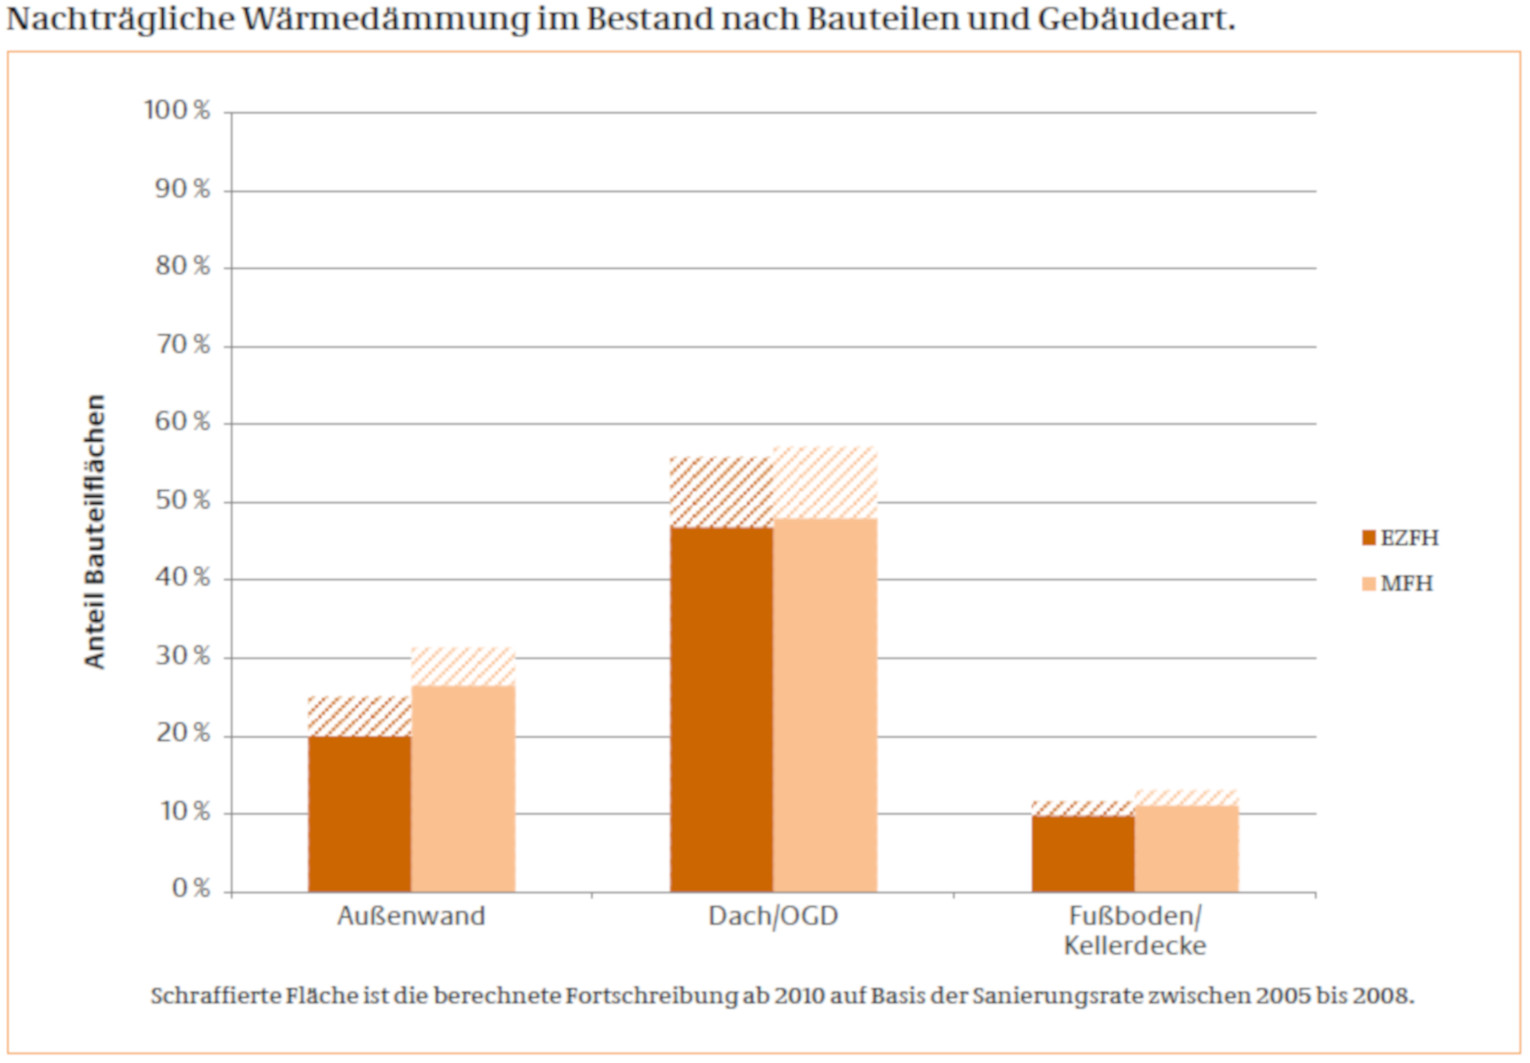
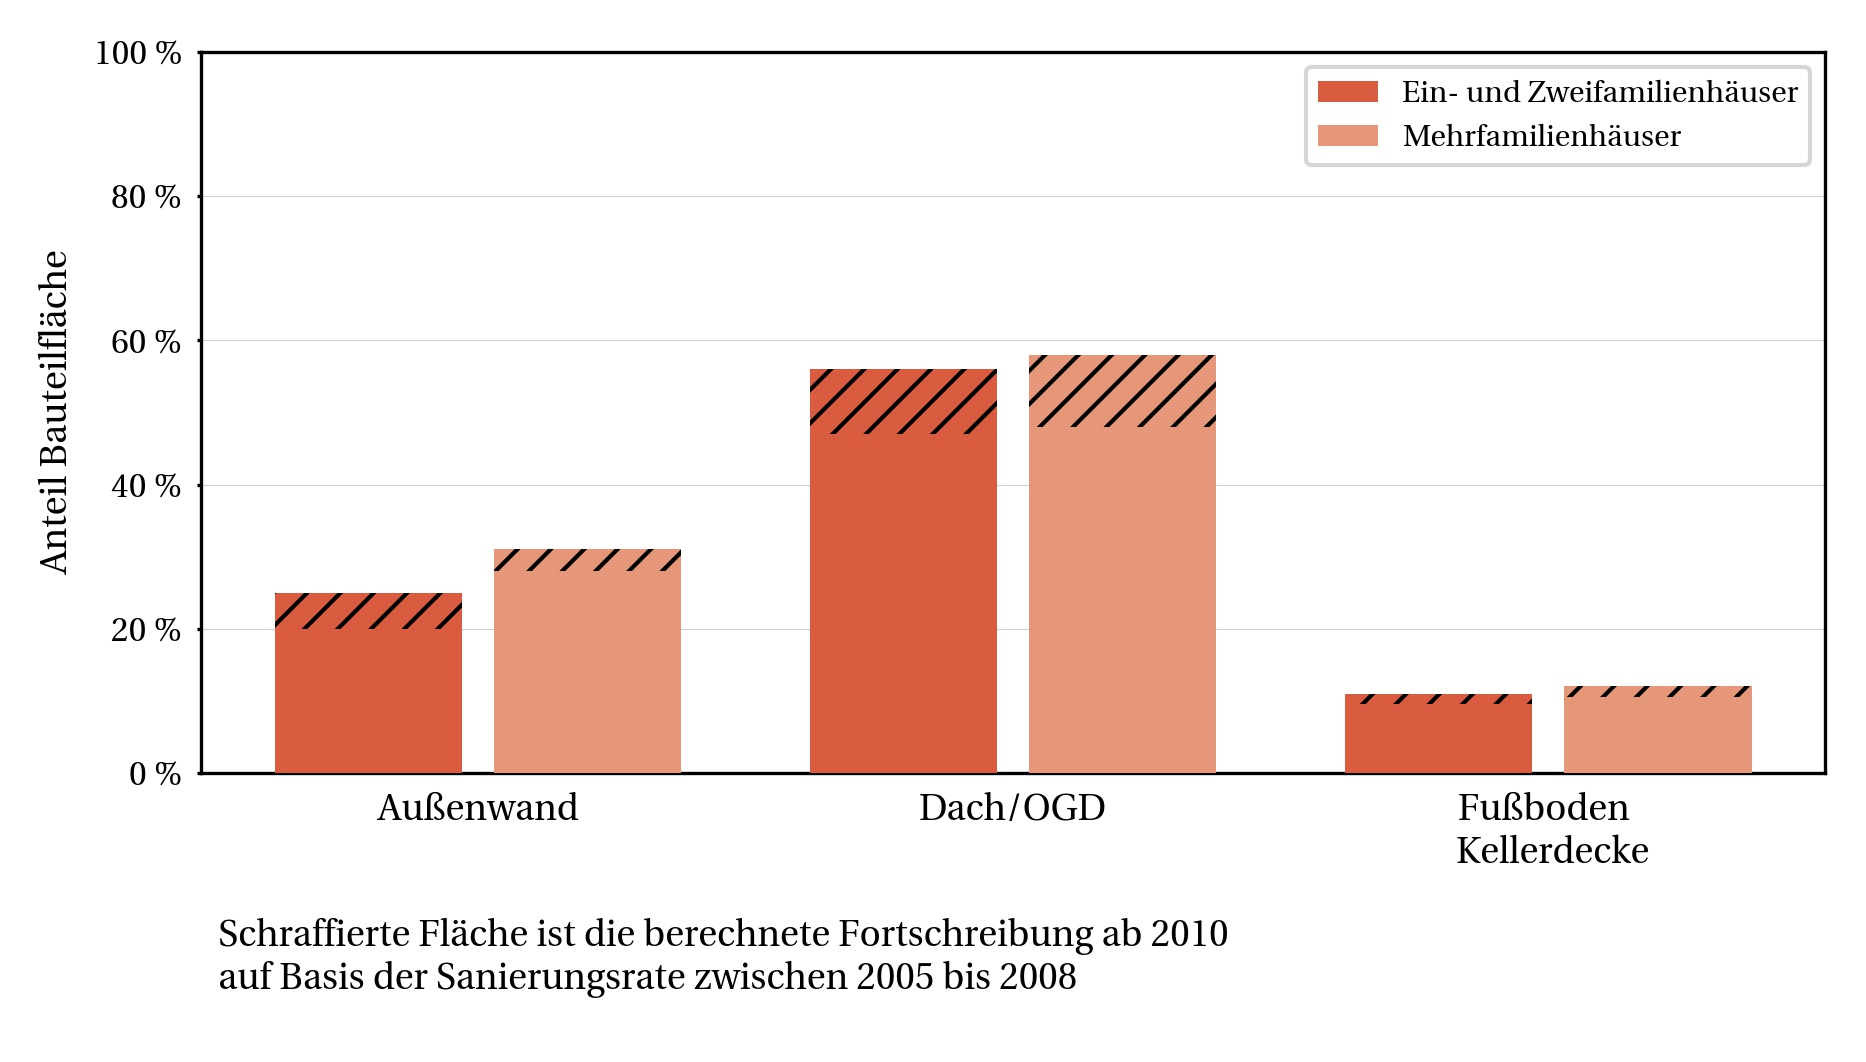
saturday changes

diff --git a/Chapters/StandDerTechnik.tex b/Chapters/StandDerTechnik.tex
@@ -113,7 +113,7 @@ In Tabelle \ref{tab: Tabelle311} sind die zuvor vorgestellten Programme der Ener
 \hline
 \rowcolor[HTML]{C0C0C0} 
 Autor & \begin{tabular}[c]{@{}l@{}}Art der\\ Optimierung \end{tabular} & \begin{tabular}[c]{@{}l@{}}Ebene/ \\ Betrachtung \end{tabular} & Energiesysteme & \begin{tabular}[c]{@{}l@{}}Zielfunktion\\ (Minimierung von...)\end{tabular} \\ \hline
-Iturriaga et al. & MILP & \begin{tabular}[c]{@{}l@{}}Gebäude\\ Auslegung\end{tabular} & XXXX & Jährlichen Kosten \\ \hline
+Iturriaga et al. & MILP & \begin{tabular}[c]{@{}l@{}}Gebäude\\ Auslegung\end{tabular} & alle & Jährlichen Kosten \\ \hline
 \rowcolor[HTML]{EFEFEF} 
 Pinzon et al. & MILP & \begin{tabular}[c]{@{}l@{}}Gebäude\\ Betrieb\end{tabular} & PV, ES,Klimageräte & \begin{tabular}[c]{@{}l@{}}Jährlichen Elektri-\\ zitätskosten\end{tabular} \\ \hline
 Risbeck et al. & MILP & \begin{tabular}[c]{@{}l@{}}Gebäude\\ Betrieb\end{tabular} & Lüftungssysteme & \begin{tabular}[c]{@{}l@{}}Jährlichen Betriebs-\\ kosten\end{tabular} \\ \hline
@@ -299,60 +299,75 @@ Strom & 0,566 \\
 \label{tab: Tabelle321}
 \end{table}
 
-Die Kombinationsmöglichkeiten zur Erfüllung der Zielfunktionen wird durch den Lösungsraum, welcher durch Restriktionen definiert wird, beschränkt.
+Die Kombinationsmöglichkeiten zur Erfüllung der Zielfunktionen wird durch den Lösungsraum beschränkt, welcher durch Restriktionen definiert wird.
 So wird beispielsweise die Anzahl der PV-Module durch die zur Verfügung stehende Dachfläche limitiert.
-Eine zentrale Nebenbedingung stellt die Berechnung der Heizlast dar.
+Eine zentrale Nebenbedingung stellt die Berechnung des Jahres-Heizenergiebedarf dar.
 Diese beschreibt die Wärmemenge, welche durch die Anlagentechnik bereitgestellt werden muss, um das Gebäude auf die Innentemperatur in Höhe von 20\,°C zu heizen.
-Als Berechnungsgrundlage dient die DIN V 4108.
-Diese definiert den Jahres-Heizenergiebedarf (Q) als Summe des Jahres-Heizwärmebedarfs (Q\(_h\), des Jahreswärmebedarfs zur Warmwasseraufbereitung (Q\(_W\) und den Wärmeverlusten der Anlagentechnik zur Wärme- und Warmwasserbereitstellung (Q\(_t\) abzüglich der Energiemenge, welche aus regenerativen Quellen gewonnen wird (Q\(_r\).
+Zur Berechnung des Jahres-Heizwärmebedarfs wird die DIN V 4701-10 \cite{DeutschesInstitutfurNormunge.V..082003} genutzt.
+Wie in Abbildung \ref{fig: Abbildung321} zu erkennen ist, setzt sich der Heizwärmebedarf zusammen aus den Transmissionwärmeverlusten (Q\(_T\)), den Lüftungswärmeverlusten (Q\(_V\)), den solaren Gewinnen (Q\(_S\)) und den internen Gewinnen (Q\(_i\)).
+Somit wird der Heizwärmebedarf berechnet als
 \begin{equation}
-\label{eq:Gleichung323}
-Q = Q_h + Q_W + Q_t - Q_r
+\label{eq:Gleichung3292}
+Q_h = Q_T + Q_V - Q_S - Q_i
 \end{equation}
 
+\begin{figure}[H] \centering
+	\centering
+		\includegraphics{Pictures/DIN_V_4701_10.png}
+	\caption{Schematische Darstellung der Berechnung des Energiebedarfs nach DIN V 4701-10 \cite{DeutschesInstitutfurNormunge.V..082003}}
+	\label{fig: Abbildung321} 
+\end{figure}
 
+Die Ermittlung der Transmissionswärmeverluste erfolgt anhand des Monatsbilanzverfahrens der DIN V 4108-6.
+Hier wird der spezifische Transmissionwärmeverlust (H\(_T\)) anhand von Gleichung \ref{eq:Gleichung3293} berechnet.
+\begin{equation}
+\label{eq:Gleichung3293}
+H_T = \sum U_i \cdot A_i + H_u + L_S + H_{WB} + \Delta H_{T,FH}
+\end{equation}
+Hierbei wird die Fläche (A) eines Bauteils i mit dessen U-Wert multipliziert, um den Wärmeverlust aufgrund des Wärmedurchgangs durch das Bauteil zu bestimmen.
+Weiter wird der Einfluss durch Wärmebrücken mittels H\(_{WB}\) und der Wärmeverlust bei anderer Temperaturdifferenz anstatt Innen- und Außentemperatur durch den thermischen Leitwert L\(_S\) berücksichtigt.
+Da in dem Optimierungsmodell keine Unterteilung in Räume geschieht und von einer durchweg konstanten Innentemperatur ausgegangen wird, entfällt der spezifische Transmissionswärmeverlust durch unbeheizte Räume (H\(_u\)).
+Ebenso wird der spezifische Wärmeverlust durch Bauteile mit Flächenheizung (\(\Delta\)H\(_{T,FH}\)) nicht betrachtet.
+Nach DIN V 4108-6 werden L\(_S\) und H\(_{WB}\) mit
+\begin{equation}
+\label{eq:Gleichung3294}
+L_{S,i} = F_i \cdot U_i \cdot A_i
+\end{equation}
+\begin{equation}
+\label{eq:Gleichung3295}
+H_{WB} = \Delta U_{WB} \cdot A
+\end{equation}
+bestimmt. 
+Der Temperaturkorrekturfaktor (F\(_i\)) definiert einen abweichenden Temperaturunterschied zwischen Innen- und Außentemperatur des Bauteils i und \(\Delta\) U\(_{WB}\) den Wärmebrückeneinfluss.
+Durch Einsetzen von Gleichung \ref{eq:Gleichung3295} und \ref{eq:Gleichung3294} in \ref{eq:Gleichung3293} wird der spezifische Transmissionswärmeverlust mit
+\begin{equation}
+\label{eq:Gleichung3296}
+H_T = \sum_{i} A_i \cdot F_i \cdot (U_i + \Delta U_{WB}) \quad \text{mit i} \in \text{[standard, retrofit, advanced retrofit]}
+\end{equation}
+berechnet.
+Die nummerischen Werte der Faktoren F\(_i\) und \(\Delta\) U\(_{WB}\) werden in Tabelle XXXX wiedergegeben.\\
+Die U-Werte der Gebäudehülle hängen von der Wahl des Sanierungsszenarios ab.
+Mit x\(_{i,k}\) als binäre Entscheidungsvariable des Bauteils i und Szenarios k wird die spezifischen Transmissionswärmeverluste somit im Optimierungsprogramm als
+\begin{equation}
+\label{eq:Gleichung3297}
+H_T = \sum_{k} \sum_{i}  A_i \cdot F_i \cdot (U_{k,i} + \Delta U_{WB}) \cdot x_{k,i} \quad \text{mit k}  \in \text{[Außenwand, Boden, Fenster, Dach]}
+\end{equation}
 
-Diese definiert die Norm-Heizlast \(\Phi_{HL, build}\) als Summe der Transmissionswärmeverlusten \(\Phi_T\), Lüftungswärmeverlusten \(\Phi_{V, build}\), der Aufheizleistung \(\Phi_{hu}\) und abzüglich der internen Gewinne \(\Phi_{gain}\).
+Weiterhin werden Profile der inneren Gewinne eingelesen und somit Q\(_i\) bestimmt.
+Die solaren Gewinne werden anhand der DIN V 4108-6 bestimmt durch
 \begin{equation}
-\label{eq:Gleichung323}
-\Phi_{HL, build} = \Phi_T + \Phi_{V, build} + \Phi_{hu} - \Phi_{gain}
+\label{eq:Gleichung3298}
+Q_s = \sum_j I_{s,j} \sum_{i}^{n} A_{s,ji} \quad \text{.}
 \end{equation}
-Die internen Gewinne werden aufgeteilt in solare Gewinne aus Sonneneinstrahlung und internen Wärmequellen wie beispielsweise Küchengeräte oder anwesenden Personen.
-Diese werden durch eingelesene Profile bestimmt und sind somit für das parametrisierte Gebäude für einen Zeitabschnitt konstant.
-Da das Modell keine Gebäudemasse abbildet, kann die Aufheizleistung nicht berechnet werden.
-Laut Norm ist \(\Phi_{hu}\) optional und wird somit vernachlässigt.
+Hierbei wird die effektive Kollektorfläche (A\(_s\)) anhand diverser Abminderungsfaktoren (F\(_s\), F\(_c\), F\(_F\), F\(_W\)) und dem wirksamen Gesamtenergiedurchlassgrad (g) berechnet.
+Der Gesamtenergiedurchlassgrad wird als G-Wert bezeichnet und hängt von dem energetischen Standard der Verglasung ab.
+Mit den eingelesenen solaren Einstrahlungsprofilen, welche für jede Himmelsrichtung j eingelesen werden und der Binärvariable zur Auswahl eines Sanierungsszenarios i der Fenster (x\(_{Fenster}\)) ergeben sich die solaren Gewinne zu
+\begin{equation}
+\label{eq:Gleichung3299}
+Q_s = F_s \cdot F_c \cdot F_F \cdot F_W \cdot \sum_{i} (x_{Fenster, i} \cdot g_i \cdot \sum_{j} ( A_{Fenster, j} \cdot I_{s,j} ))
+\end{equation}
 
-Die Transmissionswärmeverluste \(\Phi_T\) beschreiben Wärmeverluste aufgrund des Wärmeüberganges an der Gebäudehülle und lassen sich als Produkt der Temperaturdifferenz zwischen der Innen- (\(\theta_{int, i}\)) und Außentemperatur (\(\theta_e\)) mit dem Transmissionswärmetransferkoeffizienten (H\(_t\)) bestimmen und sind in Gleichung \ref{eq:Gleichung324} wiedergegeben.
-Zur Berechnung von H\(_t\) werden die Bauteilfläche (A\(_k\)), der U-Wert (U\(_k\)) und der Temperaturkorrekturfaktor (f\(_{U,k}\)) für jedes Bauteil k multipliziert und die Summe der Produkte gebildet.
-Außerdem werden Wärmebrücken mit dem zusätzlichen Wärmedurchgangskoeffizient (\(\Delta\) U\(_{TB}\)) berücksichtigt.
-Die Formel zur Berechnung von H\(_t\) ist in \ref{eq:Gleichung325} zu finden.
-\begin{equation}
-\label{eq:Gleichung324}
-\Phi_T = H_t \cdot (\theta_{int, i} - \theta_e)
-\end{equation}
-\begin{equation}
-\label{eq:Gleichung325}
-H_t = \sum_{k} A_k \cdot (U_k + \Delta U_{TB}) \cdot f_{U,k} \qquad \text{mit k }\in \{\text{Außenwand, Boden, Fenster, Dach}\}
-\end{equation}
-Hierbei wird \(\Delta U_{TB}\) laut Norm vereinfacht mit 0,05 \(\frac{W}{m^2\cdot K}\) angenommen.
-Der Temperaturkorrekturfaktor berücksichtigt einen Unterschied zwischen Innentemperatur und Außentemperatur.
-Da in dem Programm keine Unterscheidung der Raumnutzung erfolgt, gibt es nur im Falle des Bodens aufgrund des Kontakts mit dem Erdreich einen solchen Unterschied.
-Daher wird \(f_{U, Boden}\) nach Norm mit 0,6 bestimmt.
-Die verschiedenen Kombinationsmöglichkeiten der Sanierungsszenarien werden durch Multiplikation mit einer binären Entscheidungsvariablen (\(x_{k, i}\)) in das Programm mit aufgenommen, wobei k \(\in\) \{Außenwand, Boden, Dach Fenster\} und i \(\in\) \{standard, retrofit, advanced retrofit\}.
-\begin{equation}
-\label{eq:Gleichung326}
-H_t = \sum_{k} \sum_{i} A_k \cdot (U_k + \Delta U_{TB}) \cdot f_{U,k} \cdot x_{k, i}
-\end{equation}
-Im Falle \(x_{k, i} = 1\), wird das Szenario gekauft und die Transmissionswärmeverluste werden gesenkt.
-Analog hierzu entspricht \(x_{k, i} = 0\) einer Ablehnung für das Bauteil k das Szenario i zu kaufen.
-Logischerweise können je Gebäudehüllenkomponente nicht mehr als eine Sanierungsmaßnahme vorgenommen werden, sodass das Modell durch die Nebenbedingung 
-\begin{equation}
-\label{eq:Gleichung327}
-\sum_{i} x_{k, i} = 1 \qquad \text{mit i } \in \{\text{standard, retrofit, advanced retrofit}\}
-\end{equation}
-beschränkt wird.
-
-Schließlich wird die Heizlast auch durch die Lüftungswärmeverluste beeinflusst.
+Schließlich wird der Jahres-Heizenergiebedarf auch durch die Lüftungswärmeverluste beeinflusst.
 Eine wichtige Kenngröße der Lüftungswärmeverluste stellt die Luftwechselrate (n) dar.
 Diese beschreibt, wie oft pro Stunde das Volumen einer Zone durch Frischluft ausgetauscht wird.
 Die Luftwechselrate ist definiert als
@@ -360,8 +375,7 @@ Die Luftwechselrate ist definiert als
 \label{eq:Gleichun330}
 n = \frac{\Dot{V}_{Luft}}{V_z} \cdot 3600 \quad,
 \end{equation}
-wobei \(\Dot{V}_{Luft}\) den eintretenden Luftvolumenstrom und V\(_Z\) das Volumen der Zone beschreibt.
-
+wobei \(\Dot{V}_{Luft}\) den eintretenden Luftvolumenstrom und V\(_Z\) das Volumen der Zone beschreibt.\\
 Die Lüftungswärmeverluste werden in dem Optimierungsprogramm durch das Heizperiodenverfahren in DIN V 4108-6 \cite{DeutschesInstitutfurNormunge.V..Juni2003} modelliert.
 Hierzu wird laut Norm von einer Luftwechselrate für ein nicht-luftdichtheitsgeprüftes Gebäude von n = 0,7\,h\(^{-1}\) ausgegangen. 
 Des Weiteren wird das Netto-Volumen (V) in der Norm als 0,76-fachen des Brutto-Volumens (V\(_e\)) bestimmt.
@@ -373,15 +387,14 @@ H_V = 0,76 \cdot V_e \cdot \rho_{Luft} \cdot c_{p, Luft} \cdot n \quad \text{.}
 Zuletzt wird durch Berücksichtigung des Korrekturfaktor aufgrund von Nachtabschaltung der Heizung (f\(_{NA}\)) und des Gradtagzahlfaktor (G\(_t\)) die jährlichen Lüftungswärmeverluste zu
 \begin{equation}
 \label{eq:Gleichung329}
-\Phi_{V, build} = H_V \cdot G_t \cdot f_{NA} \cdot 0,024
+Q_{V} = H_V \cdot G_t \cdot f_{NA} \cdot 0,024
 \end{equation}
 berechnet.
-Hierbei ist 0,024 der Umrechenfaktor von Tag zu Stunde und Kilowatt zu Watt.
-
+Hierbei ist 0,024 der Umrechenfaktor von Tag zu Stunde und Kilowatt zu Watt.\\
 Diese jährliche Energiemenge der Lüftungswärmeverluste wird gleichmäßig auf die 8760 betrachteten Zeitpunkte des Jahres aufgeteilt.
 \begin{equation}
 \label{eq:Gleichung3291}
-Q_l = \frac{\Phi_{V,build}}{8760}
+Q_l = \frac{Q_{V}}{8760}
 \end{equation}
 Somit sind diese Verluste in dem Modell für jeden betrachteten Zeitpunkt konstant und werden als statisch angesehen.
 
@@ -401,7 +414,13 @@ Analog hierzu liegt der relative Anteil der Lüftungs- an den Gesamtwärmeverlus
 In diesen Fällen steigt der Anteil der Lüftungswärmeverlusten an den Gesamtwärmeverlusten des Gebäudes auf 50 bis 70\,\% \cite{Milles.2011}.
 So beispielsweise in Niedrigenergiehäusern oder Altbauten mit energetisch ertüchtigter Gebäudehülle. \cite{BorschLaaks.2011}
 
-XXXX Grafik: Lüftung im Wohngebäude XXXX
+\begin{figure}[H]
+	\centering
+		\includegraphics{Pictures/LueftungswaermeverlusteWohngebaeude.jpg}
+	\caption{Anteil der Lüftungs- und Transmissionwärmeverluste an den Gesamtwärmeverlusten für unterschiedliche Gebäudestandards \cite{BorschLaaks.2011}}
+	\label{fig: Abbildung331} 
+\end{figure}
+
 
 Den Lüftungswärmeverlusten stehen hygienische Aspekte und die Luftqualität gegenüber.
 Einerseits muss in einem Gebäude ein Luftaustausch geschehen um Luftfeuchtigkeit und Kohlenstoffdioxid aus den Räumen abzutransportieren.

diff --git a/Chapters/Grundlagen.tex b/Chapters/Grundlagen.tex
@@ -165,7 +165,7 @@ Eine solche Verschärfung wurde hingegen durch die EnEV 2009 vollzogen.
 Zum einen wurde die Berechnung des Jahres-Primärenergiebedarfes umgestaltet.
 Das Berechnungsverfahren nach EnEV 2009 bestimmt einen flächenspezifischen Höchstwert des Jahres-Primärenergiebedarfes, welcher durch ein Referenzgebäude gleicher Geometrie, Gebäudenutzfläche und Ausrichtung kalkuliert wird.
 Die U-Werte der Referenzgebäudeberechnung wurden für die TABULA-Typgebäude der Baujahre \mbox{2010 - 2015} übernommen und sind in Tabelle \ref{tab: TabelleA1} zu finden.
-Zum anderen wurden die Grenzwerte \(H_{t, max}'\) in weniger Kategorien im Vergleich zur EnEV 2002 unterteilt und verschärft.
+Zum anderen wurden die Grenzwerte H\(_{t, max}'\) in weniger Kategorien im Vergleich zur EnEV 2002 unterteilt und verschärft.
 %EnEV Zitate
 
 \begin{figure}[H]
@@ -210,10 +210,10 @@ Obwohl die Einfachverglasung für die Mehrheit des Altbaus den Neubaustandard da
 Der heutige Bestand der Fenster wird durch unbeschichtetes Isolierglas sowie dem Zweischeiben-Wärmedämmglas dominiert, welche mit respektiv 34\,\% und 47\,\% vertreten sind.
 Weiterhin ist zu erkennen, dass das Dreischeiben-Wärmedämmglas bereits 8\,\% des Fensterbestandes bereitstellt, obwohl dieses erst 10 Jahren vor Erhebung der Daten auf den Markt kam.
 
-\begin{figure}[H]
+\begin{figure}[H]\centering
 	\centering
 		\includegraphics{Pictures/NachtraeglicheSanierung.jpg}
-	\caption{Anteil der Gebäudetypen Ein- und Zweifamilienhäuser sowie Mehrfamilienhäuser mit nachträglicher Dämmung der Bauteile Außenwand, Dach/Obergeschossdecke und Fußboden/Kellerdecke \cite{Bigalke.2016}}
+	\caption{Anteil der Bauteilfläche mit nachträglicher Dämmung von Außenwand, Dach/Obergeschossdecke (OGD), Fußboden/Keller bei Ein-und Zweifamilien- sowie Mehrfamilienhäuser \cite{Bigalke.2016}}
 	\label{fig: Abbildung231} 
 \end{figure}
 
@@ -251,6 +251,16 @@ KfW-Programm 430 & Investitionszuschuss & \begin{tabular}[c]{@{}r@{}}Sanierung v
 \label{tab: Tabelle241}
 \end{table}
 
-%Dena Gebäudereport S. 151
+In Abbildung {fig: Abbildung241} sind die Darlehnsvolumen verschiedener Einzelmaßnahmen zu finden, welche von der KfW in den Jahren von 2009 bis 2015 vergeben wurde.
+Der größte Anteil wird hierbei von energetischen Ertüchtigungen der Bauteile Außenwand, Dach und Fenster gestellt.
+Weiterhin bilden die Gelder zur Beschaffung eines neuen Heizungssystems einen nennenswerten Anteil der vergebenen Darlehns.
+Die Förderungen der Kellerdecke und der Lüftung stellen keinen relevanten Anteil des Darlehnsvolumen dar.
+
+\begin{figure}[H]
+	\centering
+		\includegraphics{Pictures/FoerdervolumenEinzelmassnahmen.jpg}
+	\caption{Fördervolumen der KfW-Förderung Einzelmaßnahmen für Sanierung nach Anwendungszweck von 2009 bis 2015 (Kredit und Zuschuss) \cite{Bigalke.2016}}
+	\label{fig: Abbildung241} 
+\end{figure}
 
 

diff --git a/Chapters/Parameter.tex b/Chapters/Parameter.tex
@@ -125,9 +125,20 @@ Da von Fenstern mit gleicher Geometrie und nur einem möglichen Öffnungswinkel 
 Das Ergebnis dieser Rechenschritte beschreibt stundenweise Fensteröffnungsprofile einer Wohnung, die über ein Jahr aufgetragen sind.\\
 Die stündlichen Werte werden über alle Wohnungen des Datensatzes gemittelt.
 Somit wird aus den 60 Wohnungen des Forschungsprojekts ein Jahresprofil erzeugt, welches die Öffnungsdauer einer unbekannten Menge an Fenstern je Stunde des Jahres beschreibt.
-Um sowohl die Außentemperatur als auch die Tageszeit in den Fensteröffnungsprofilen zu berücksichtigen, werden Temperaturintervalle mit ähnlichem Nutzerverhalten gebildet. XXXX Tanjas Aussage zu Klassen XXXX
+Um sowohl die Außentemperatur als auch die Tageszeit in den Fensteröffnungsprofilen zu berücksichtigen, werden Temperaturintervalle mit ähnlichem Nutzerverhalten gebildet. 
+Bei ähnlichen Außentemperaturen zeigt das Lüftungsverhalten der Bewohner Gemeinsamkeiten unabhängig der Jahreszeit \cite{Osterhage.2018}.
+Temperaturen kleiner \mbox{0°C} werden mit dem Temperaturintervall \mbox{-5°C} und dem Intervall \mbox{[-5°C, 0°C)} abgebildet.
+Für Temperaturen größer als \mbox{0°C} werden die Intervalle in 3\,K Schritten bis \mbox{15°C} gebildet und somit die Intervalle \mbox{[0°C, 3°C)}, \mbox{[3°C, 6°C)}, \mbox{[6°C, 9°C)}, \mbox{[9°C, 12°C)} und \mbox{[12°C, 15°C)} festgelegt.
 Für Tage, an welchen sich die durchschnittliche Tagestemperatur in demselben Temperaturintervall befindet, werden die hypothetischen Fensteröffnungsdauern je Tageszeitpunkt gemittelt.
 Somit werden Tagesprofile der Fensteröffnungszeiten für unterschiedliche Temperaturintervalle einer Wohnung erzeugt.
+In Abbildung \ref{fig: Abbildung421} sind exemplarische Fensteröffnungsprofile der Temperaturintervalle [9,12) und [12,15) dargestellt.
+
+\begin{figure}[H]
+	\centering
+		\includegraphics{Pictures/Fensteroeffnungsprofile.jpg}
+	\caption{tba}
+	\label{fig: Abbildung421} 
+\end{figure}
 
 Neben dem geöffneten oder geschlossenen Zustand eines Fensters beeinflussen die Temperaturdifferenz zwischen Innen- und Außentemperatur sowie die Windgeschwindigkeit den durch ein Fenster einströmenden Luftvolumenstrom.
 Die Temperaturdifferenz kann durch Temperaturprofile gebildet werden, welche bereits in das Optimierungsprogramm eingelesen werden.
